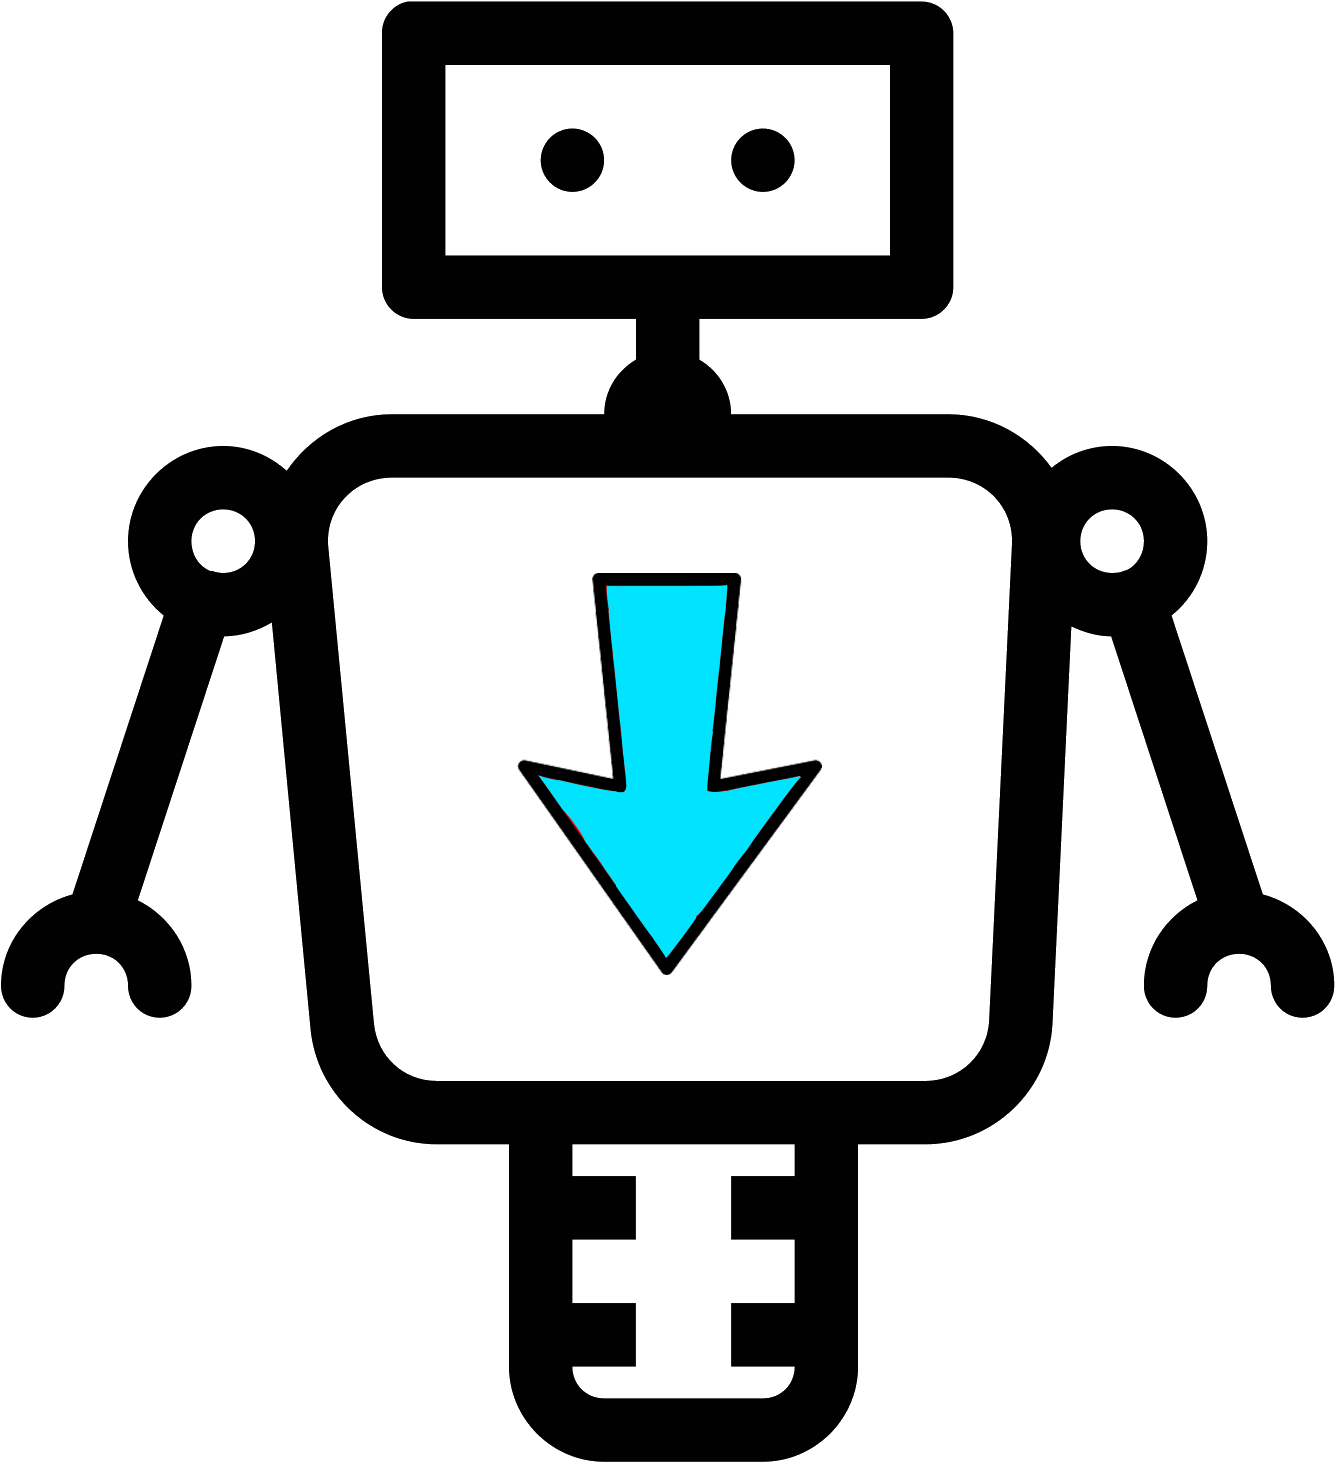
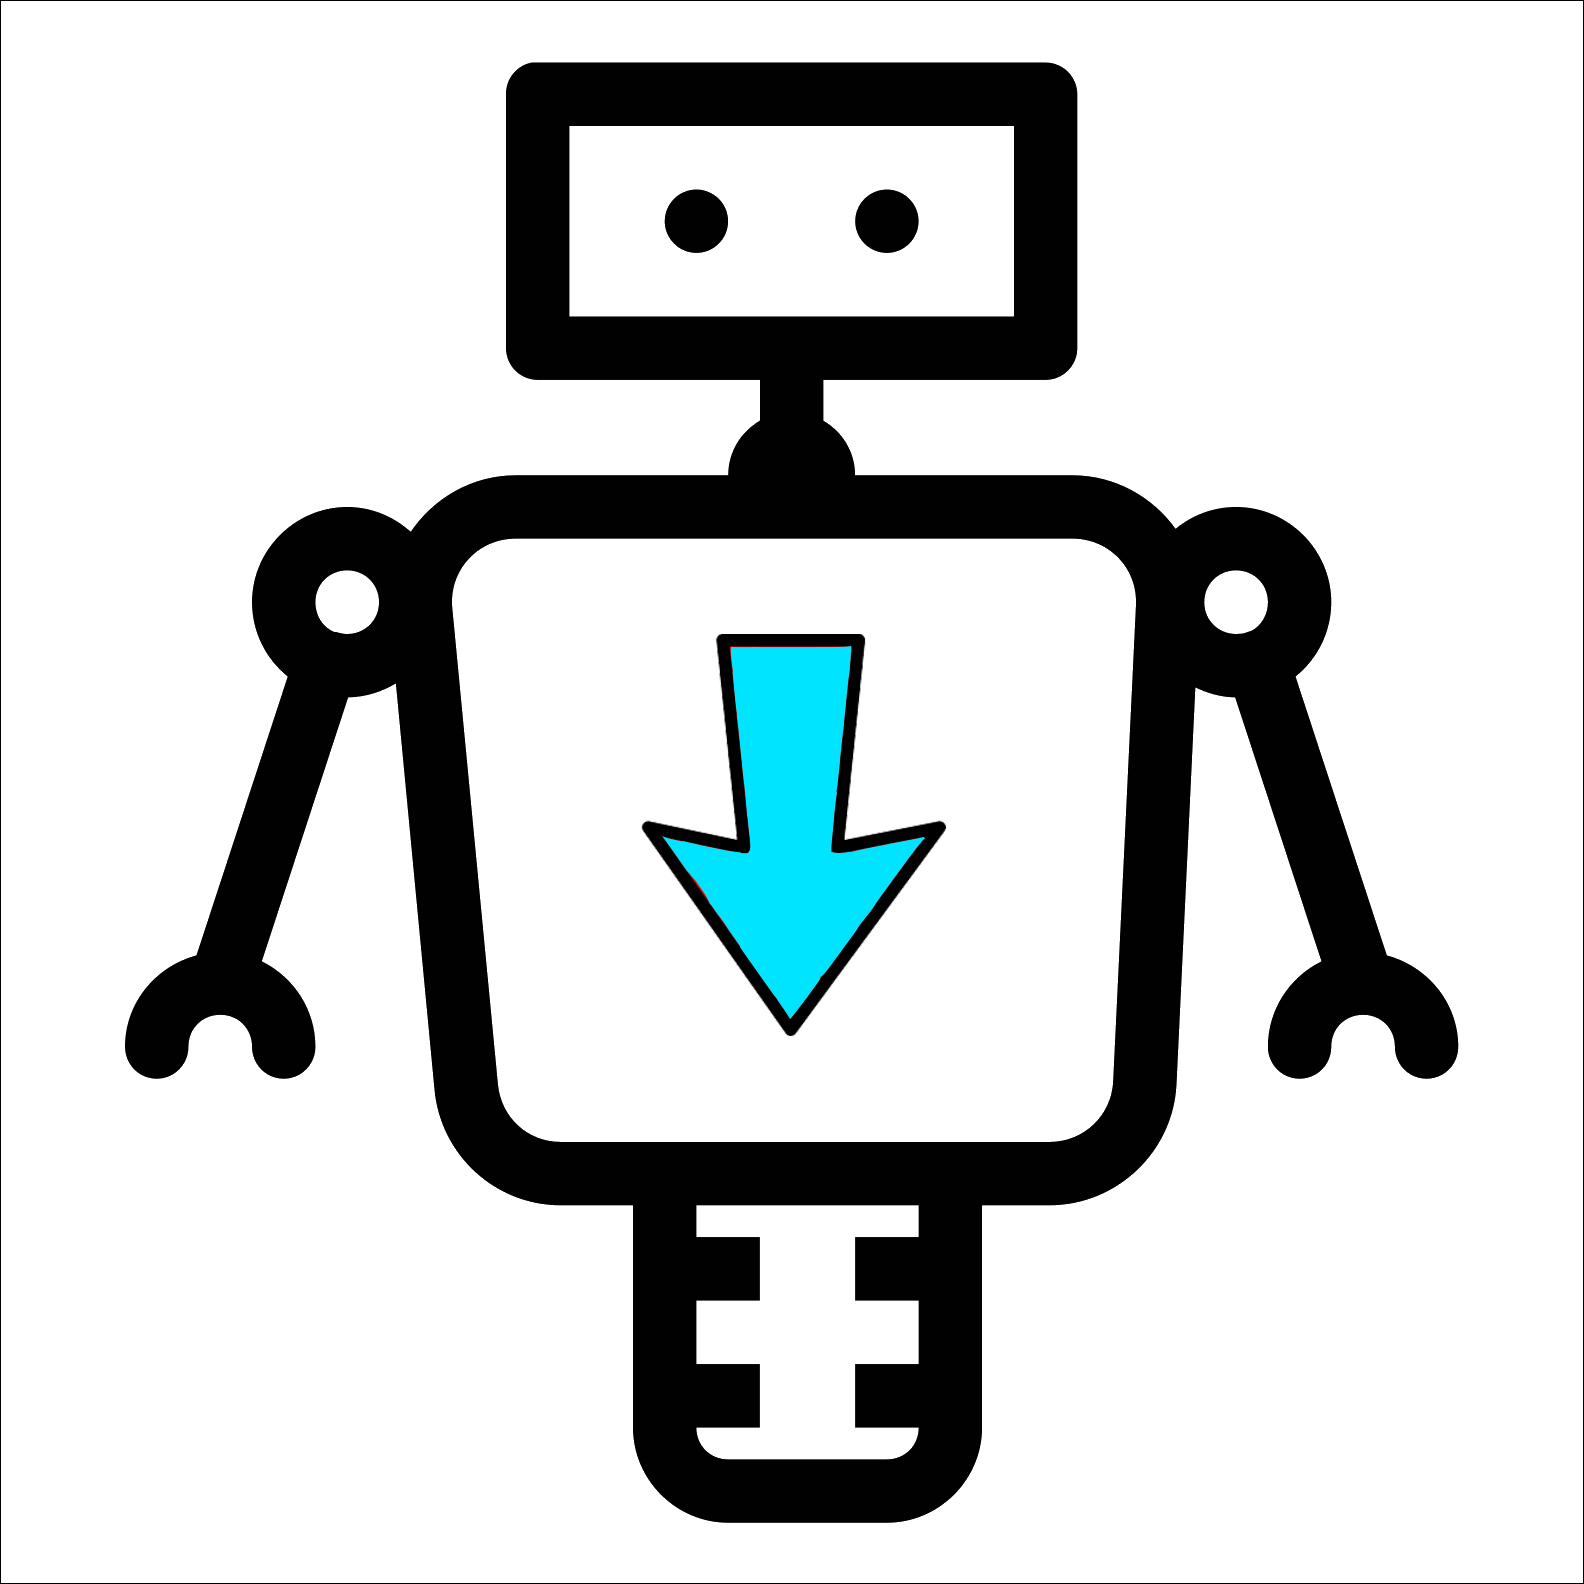
Fully implemented the ability to rotate robots in the editor

Changed region(s): [[0.0, 0.0, 1.0, 1.0], [0.3685, 0.3694, 0.6142, 0.6772]]

diff --git a/Client/library/buttons/editor/EditorGridButton.cpp b/Client/library/buttons/editor/EditorGridButton.cpp
@@ -16,8 +16,8 @@ void EditorGridButton::setEmptyButtonStyleSheet()
 
 void EditorGridButton::setRobotButtonStyleSheet()
 {
-    setStyleSheet("background-color: #ef476e; color:white; font-size: 30px; border: 1px solid black;");
-    setText("R");
+    setStyleSheet("border-image:url(:/Resources/resources/robot_up.png); background-color: #ef476e; color:white; font-size: 30px; border: 1px solid black;");
+    //setText("R");
 }
 
 void EditorGridButton::setDockerButtonStyleSheet()
@@ -42,6 +42,18 @@ void EditorGridButton::setDropOffPointButtonStyleSheet(QString product)
 {
     setStyleSheet("background-color: #907f9f; color:white; font-size: 30px; border: 1px solid black;");
     setText("C\n(" + product + ")");
+}
+
+void EditorGridButton::setRobotOrientation(int orientation)
+{
+    if(orientation == 0) setRobotButtonStyleSheet();
+    else if(orientation == 1) {
+         setStyleSheet("border-image:url(:/Resources/resources/robot_right.png); background-color: #ef476e; color:white; font-size: 30px; border: 1px solid black;");
+    } else if(orientation == 2) {
+         setStyleSheet("border-image:url(:/Resources/resources/robot_down.png); background-color: #ef476e; color:white; font-size: 30px; border: 1px solid black;");
+    } else if (orientation == 3) {
+         setStyleSheet("border-image:url(:/Resources/resources/robot_left.png); background-color: #ef476e; color:white; font-size: 30px; border: 1px solid black;");
+    }
 }
 
 void EditorGridButton::dragEnterEvent(QDragEnterEvent *event)

diff --git a/Client/views/MapEditor.cpp b/Client/views/MapEditor.cpp
@@ -204,6 +204,10 @@ void MapEditor::onFieldButtonPressed()
             ProductsOnShelfDialog posd (productsOnThisShelf);
             posd.exec();
         }
+    } else if (res.first == MapEditorController::Robot) {
+        RobotFieldModel* selectedRobot = qobject_cast<RobotFieldModel*> (res.second);
+        _controller->rotateRobot(selectedRobot);
+        _gridButtons[selectedRobot->getRow()][selectedRobot->getCol()]->setRobotOrientation(selectedRobot->getOrientation());
     }
 
 }
@@ -241,6 +245,7 @@ void MapEditor::onFieldChanged(int row, int col)
 
    if(val == MapEditorController::Robot) {
        _gridButtons[row][col]->setRobotButtonStyleSheet();
+       _gridButtons[row][col]->setCursor(QCursor(Qt::PointingHandCursor));
    } else if (val == MapEditorController::Shelf) {
         if(_controller->isASelectedShelf(row,col)) _gridButtons[row][col]->setSelectedShelfButtonStyleSheet();
         else _gridButtons[row][col]->setUnselectedShelfButtonStyleSheet();

diff --git a/Client/controllers/MapEditorController.cpp b/Client/controllers/MapEditorController.cpp
@@ -156,6 +156,11 @@ void MapEditorController::toggleShelfSelection(ShelfFieldModel *s)
     emit shelfSelectionChanged(s->getRow(),s->getCol(),pos == -1);
 }
 
+void MapEditorController::rotateRobot(RobotFieldModel *r)
+{
+    r->setOrientation((r->getOrientation()+1) % 4);
+}
+
 bool MapEditorController::moveSelectedShelves(int direction)
 {
     //This is not fully correct yet. If there are 2 selected shelves next to eachother and we

diff --git a/Client/controllers/MapEditorController.h b/Client/controllers/MapEditorController.h
@@ -30,6 +30,7 @@ public:
     bool validateProductPlacement(int row, int col);
     bool fieldIsEmpty();
     void toggleShelfSelection (ShelfFieldModel* s);
+    void rotateRobot (RobotFieldModel* r);
     bool moveSelectedShelves (int direction);
     bool isASelectedShelf(int row, int col);
     QVector<QString> getProductsOnShelf(int row, int col);

diff --git a/Client/library/buttons/editor/EditorGridButton.h b/Client/library/buttons/editor/EditorGridButton.h
@@ -23,6 +23,7 @@ public:
     void setUnselectedShelfButtonStyleSheet();
     void setSelectedShelfButtonStyleSheet();
     void setDropOffPointButtonStyleSheet(QString product);
+    void setRobotOrientation(int orientation);
 
     int getRow() const;
     int getCol() const;

diff --git a/Client/models/RobotFieldModel.cpp b/Client/models/RobotFieldModel.cpp
@@ -34,4 +34,9 @@ void RobotFieldModel::read(const QJsonObject &json) {
     _orientation = json["orientation"].toInt();
 }
 
+void RobotFieldModel::setOrientation(int orientation)
+{
+    _orientation = orientation;
+}
+
 

diff --git a/Client/models/RobotFieldModel.h b/Client/models/RobotFieldModel.h
@@ -18,6 +18,8 @@ public:
     void write(QJsonObject &json);
     void read(const QJsonObject &json);
 
+    void setOrientation(int orientation);
+
 private:
     int _row;
     int _col;
